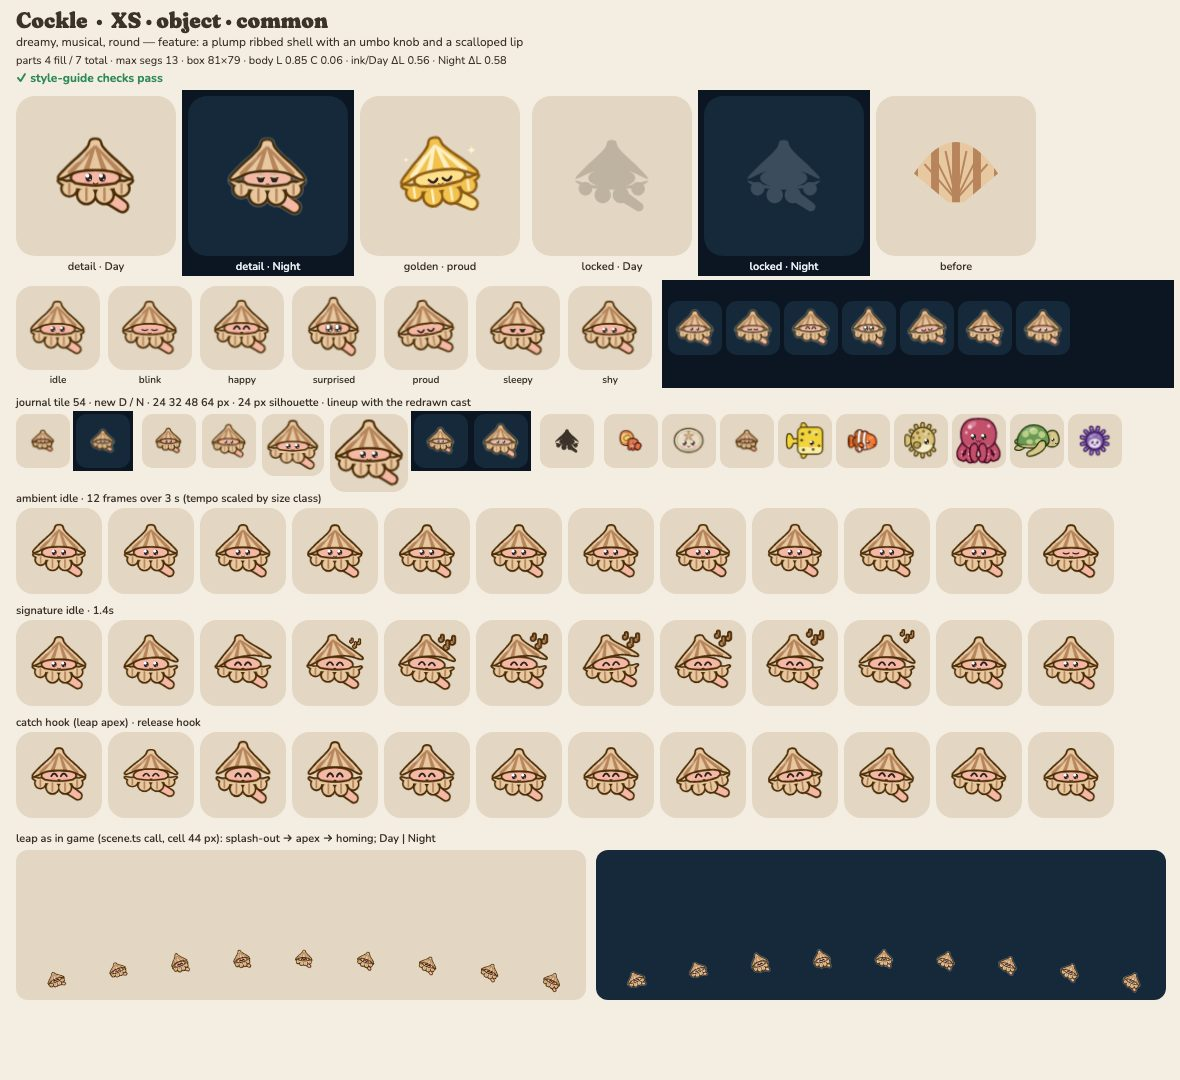
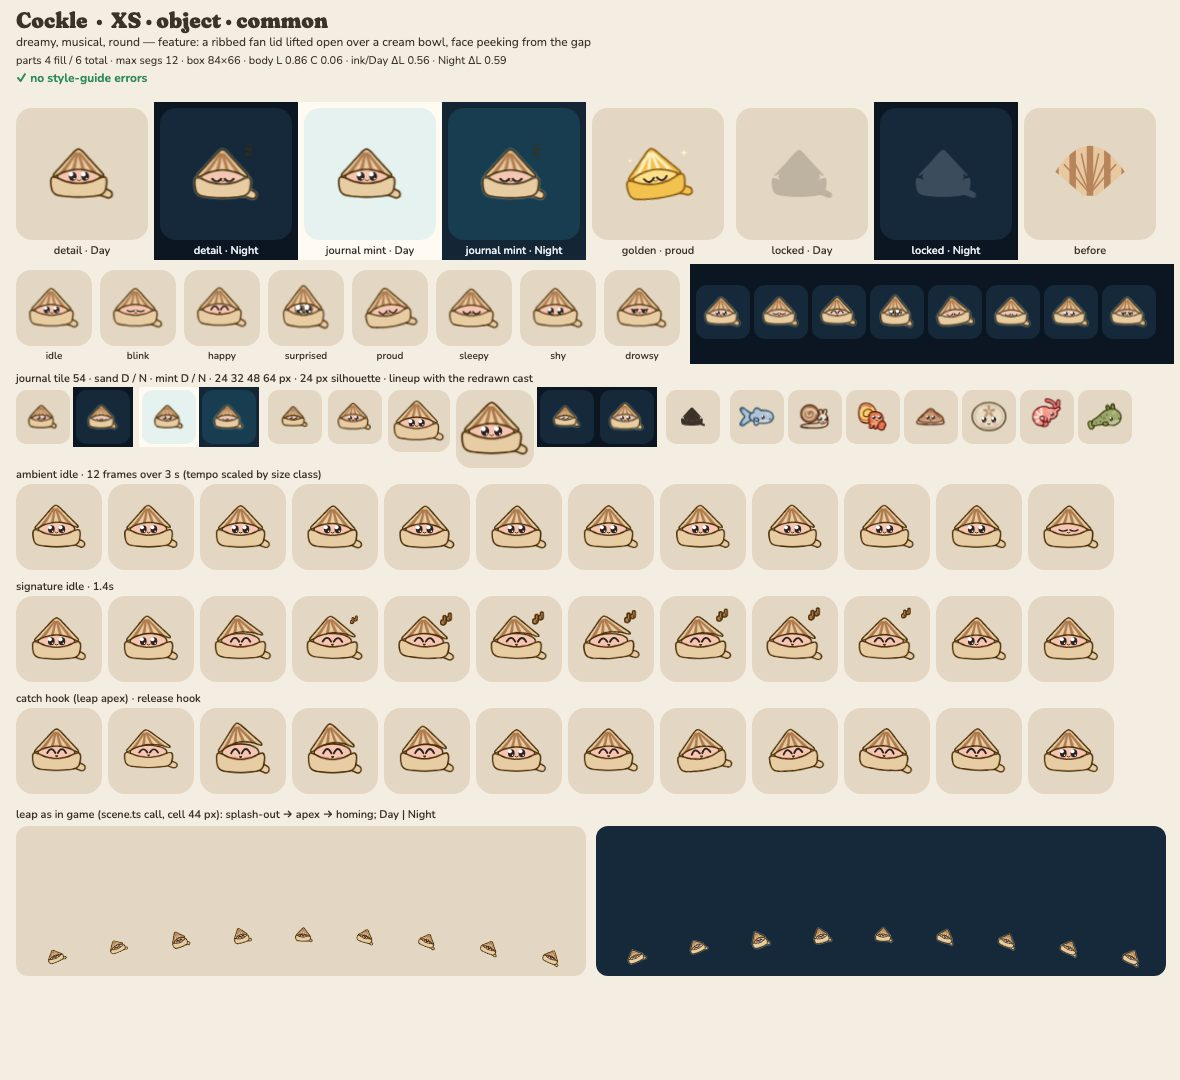
art: cockle redo, fan lid lifted over a bowl, face in a wide gap, cream foot nub (ADR 0011)

diff --git a/src/render/art/species/cockle.ts b/src/render/art/species/cockle.ts
@@ -1,140 +1,137 @@
 /**
  * Cockle — OBJECT class (front view), size XS.
- * Silhouette: a plump ribbed shell, wider than tall, with a round umbo knob on top and a lower lip
- * of four round scallops (R10: the ribs and their scalloped ends). Eyes peek from the gap between
- * the two valves (R6). Four brown ribs, never seven hairlines (R18).
- * Personality: dreamy, musical, round. Signature: the lid lifts 10° and it hums three little notes.
- * Groups (back to front): mantle (the face rides on it), body (lower valve), lid, notes (prop).
+ * Silhouette: a ribbed fan-shaped lid with a soft rounded apex over a deep cream bowl, lifted open so
+ * a wide lens-shaped gap shows the pink mantle and the face (R6), plus a small cream foot nub at the
+ * side (cockles hop with it). R10: the four broad ribs fanning from the apex (R18: 4 ridges).
+ * Every rounder, wider, heart-shaped version normalised onto the sand dollar's coin (IoU 0.80–0.93),
+ * so the fan apex and the foot nub are the silhouette levers.
+ * Personality: dreamy, musical, round. Signature: the lid rocks open while it hums three notes, wink.
+ * Groups (back to front): mantle (with the foot; the face rides on it), body (bowl), lid, notes (prop).
  */
-import { blob, capsule, circle, defineArt, ellipse, join } from '../kit.ts';
+import { blob, capsule, circle, defineArt, ellipse, join, tube, xform } from '../kit.ts';
 
-const lid = blob([
-  [-40, 2],
-  [-29, -11],
-  [-15, -24],
-  [-7, -33],
-  [-4, -40],
-  [4, -40],
-  [7, -33],
-  [15, -24],
-  [29, -11],
-  [40, 2],
-  [20, -6],
-  [0, -8],
-  [-20, -6],
-]);
-// four ribs fanning from the umbo to the lip
-const ribs = join(
-  capsule(-3, -31, 1.4, -28, -4, 2.8),
-  capsule(-1, -33, 1.4, -10, -7, 3),
-  capsule(1, -33, 1.4, 10, -7, 3),
-  capsule(3, -31, 1.4, 28, -4, 2.8),
-);
-const base = join(
+const HINGE: [number, number] = [-40, 4];
+const OPEN = 0; // resting tilt in degrees (the signature tips the lid open on its left hinge)
+const S = 0.9; // the whole shell, scaled to fit the 84-unit box once tipped open
+const fit = (d: string) => xform(d, { sx: S, sy: S });
+const tip = (d: string) => fit(xform(d, { rot: OPEN, ox: HINGE[0], oy: HINGE[1] }));
+
+// the closed lid: convex shoulders, an off-centre umbo knob (cockles' beaks sit a touch forward)
+const lidShape = join(
   blob([
-    [-40, 4],
-    [-20, 9],
-    [0, 11],
-    [20, 9],
-    [40, 4],
-    [32, 10],
-    [18, 13],
-    [0, 14],
-    [-18, 13],
-    [-32, 10],
+    [-38, 2],
+    [-28, -10],
+    [-16, -23],
+    [-6, -34],
+    [0, -38],
+    [6, -34],
+    [16, -23],
+    [28, -10],
+    [38, 2],
+    [22, -5],
+    [0, -9],
+    [-22, -5],
   ]),
-  circle(-29, 13, 7.5),
-  circle(-10, 20, 9),
-  circle(10, 20, 9),
-  circle(29, 13, 7.5),
 );
-const mantle = ellipse(0, 1, 26, 11);
-// the cockle's famous jumping foot, poking out under the lip
-const foot = capsule(14, 22, 6, 30, 33, 5);
+// four broad ribs fanning from the umbo (pattern strokes ≥ 4 units)
+const rib = (x: number) =>
+  tube([
+    [-1 + x * 0.12, -32, 1.6],
+    [x * 0.55, -14, 2.4],
+    [x, 4, 2.9],
+  ]);
+const ribs = join(rib(-31), rib(-11), rib(10), rib(30));
+// the lower valve: a deep rounded bowl with a soft heart point
+const base = blob([
+  [-40, 5],
+  [-20, 12],
+  [0, 15],
+  [20, 12],
+  [40, 5],
+  [41, 21],
+  [35, 30],
+  [18, 33],
+  [0, 34],
+  [-18, 33],
+  [-35, 30],
+  [-41, 21],
+]);
+// the mantle: soft and pale inside the gap
+const mantle = ellipse(0, 3, 32, 13);
+// a small cream foot nub peeking out at the side (cockles hop with it)
+const foot = capsule(30, 24, 5.5, 46, 31, 4.6);
 const notes = join(
-  circle(30, -30, 3),
-  capsule(32.6, -30, 1.3, 32.6, -39, 1.3),
-  circle(40, -38, 2.6),
-  capsule(42.3, -38, 1.2, 42.3, -46, 1.2),
-  circle(22, -42, 2.4),
-  capsule(24.2, -42, 1.1, 24.2, -48, 1.1),
+  circle(30, -32, 3),
+  capsule(32.6, -32, 1.3, 32.6, -41, 1.3),
+  circle(39, -38, 2.6),
+  capsule(41.3, -38, 1.2, 41.3, -45, 1.2),
 );
 
 export default defineArt({
   id: 'cockle',
   klass: 'object',
   size: 'XS',
-  feature: 'a plump ribbed shell with an umbo knob and a scalloped lip',
+  feature: 'a ribbed fan lid lifted open over a cream bowl, face peeking from the gap',
   personality: ['dreamy', 'musical', 'round'],
-  palette: { body: '#E7C8A0', accent: '#B7845B', belly: '#F4B8A4' },
+  palette: { body: '#E8CCA3', accent: '#B07A4E', belly: '#F6C6B2' },
   groups: [
     {
       id: 'mantle',
       parts: [
-        { d: foot, role: 'belly' },
-        { d: mantle, role: 'belly' },
+        { d: fit(foot), role: 'body' },
+        { d: fit(mantle), role: 'belly' },
       ],
     },
     {
       id: 'body',
-      parts: [
-        { d: base, role: 'body' },
-        { d: 'M-29 8L-29 18M-10 13L-10 26M10 13L10 26M29 8L29 18', role: 'accent', kind: 'line', w: 2.6 },
-      ],
+      parts: [{ d: fit(base), role: 'body' }],
     },
     {
       id: 'lid',
-      pivot: [0, -6],
+      pivot: [HINGE[0] * S, HINGE[1] * S],
       parts: [
-        { d: lid, role: 'body' },
-        { d: ribs, role: 'accent', kind: 'pattern' },
+        { d: tip(lidShape), role: 'body' },
+        { d: tip(ribs), role: 'accent', kind: 'pattern' },
       ],
     },
-    { id: 'notes', pivot: [32, -38], prop: true, parts: [{ d: notes, role: 'accent' }] },
+    { id: 'notes', pivot: [34, -38], prop: true, parts: [{ d: notes, role: 'accent' }] },
   ],
   shineOn: 'lid',
-  shine: ellipse(-18, -20, 8, 3.6, -28),
+  shine: tip(ellipse(-20, -22, 8, 3.6, -28)),
   face: {
     g: 'mantle',
     eyes: [
-      [-7.5, 1],
-      [7.5, 1],
+      [-8.6, 2.5],
+      [8.6, 2.5],
     ],
-    eye: 8.6,
-    zone: [-30, -20, 60, 36],
-    mouth: { at: [0, 7], w: 5, shape: 'smile' },
+    eye: 12.6,
+    zone: [-34, -30, 68, 56],
+    mouth: { at: [0, 7.5], w: 5, shape: 'smile' },
     front: true,
     sweet: true,
+  },
+  deviations: {
+    R16S: 'warm cream shell after the critique’s #F1DDBB, deepened so it clears mint (ΔE ≥ 0.1); chroma 0.065; the broad brown ribs carry it on sand',
   },
   idle: {
     ambient: [
       { m: 'breathe', amp: 0.015, period: 3.6 },
-      { m: 'bob', g: 'lid', amp: 0.8, period: 3.6 },
+      { m: 'sway', g: 'lid', amp: 1.6, period: 3.6 },
     ],
     signature: {
       dur: 1.4,
       tracks: [
         {
           g: 'lid',
-          p: 'ty',
-          k: [
-            [0, 0],
-            [0.18, -5],
-            [0.78, -5],
-            [0.92, 0.6],
-            [1, 0],
-          ],
-        },
-        {
-          g: 'lid',
           p: 'rot',
           k: [
             [0, 0],
-            [0.18, -10],
-            [0.36, -7],
-            [0.54, -10],
-            [0.72, -7],
-            [0.86, 0],
+            [0.18, -8],
+            [0.36, -4],
+            [0.54, -8],
+            [0.72, -4],
+            [0.88, 0.6],
+            [1, 0],
           ],
         },
         {
@@ -160,9 +157,9 @@ export default defineArt({
           p: 'rot',
           k: [
             [0.2, 0],
-            [0.38, 4],
-            [0.56, -4],
-            [0.74, 3],
+            [0.38, 3],
+            [0.56, -3],
+            [0.74, 2],
             [0.9, 0],
           ],
         },
@@ -178,11 +175,11 @@ export default defineArt({
     tracks: [
       {
         g: 'lid',
-        p: 'ty',
+        p: 'rot',
         k: [
           [0, 0],
-          [0.3, -5],
-          [0.7, -4],
+          [0.3, -9],
+          [0.7, -6],
           [1, 0],
         ],
       },

diff --git a/docs/art/notes/fleet-2.md b/docs/art/notes/fleet-2.md
@@ -263,3 +263,20 @@ Worst same-class pair overall among mine: clownfish/sunfish 0.684 and limpet/nau
   head front, and two short knobbed stalks above (`extra`, out of the body box).
 - Shell `#A8724D` (chroma 0.09, R16S), shell raised so the shell/head notch stays open. Lint clean.
 - IoU: sand dollar 0.66 (same class), hermit 0.66 (cross-class). Self-grade A-.
+
+## cockle (graded C → redo)
+- Brief: wide heart-ish shell 1.25 : 1, 4 broad ribs `#B07A4E` on `#F1DDBB`, open ~10° with eyes in the
+  gap, drop the tongue-foot (or a small cream side nub), keep the hum.
+- Tried, measured against the full cast (R12):
+  1. Heart 84×67 with a lens gap, edges closed: sand dollar 0.85. Scalloped heart lip + umbo: 0.87.
+  2. Lid tipped 11–24° on a left hinge (a wedge gap): 0.70 at 24°, but the locked silhouette was a
+     famous arcade character's (originality risk, CRITIQUE-1 golden-turtle note). Dropped.
+  3. Fan lid (rounded triangle) over a square-ish bowl + a small cream foot nub at the side: sand
+     dollar 0.68, limpet 0.68, cuttle 0.76 (cross-class). Kept.
+- The gap is now a wide lens (the lid lifted ~10° worth), mantle pink, eyes 12.6 (the XS floor),
+  smile in the gap; ribs slimmed so the lid reads cream with brown ribs, not a brown hat; no pompom
+  knob; the foot is cream, not pink. Shell `#E8CCA3` (the critique's `#F1DDBB` measures L 0.91 and
+  sits ΔE 0.07 from the mint tile; R16S deviation at chroma 0.06).
+- Self-grade: B+. The face is sweet and the hum reads; the shape is a fan, not the heart the critique
+  asked for: no heart passes the coin overlap at 24 px. Would need a silhouette metric change or a
+  sand-dollar redesign to get the heart.
